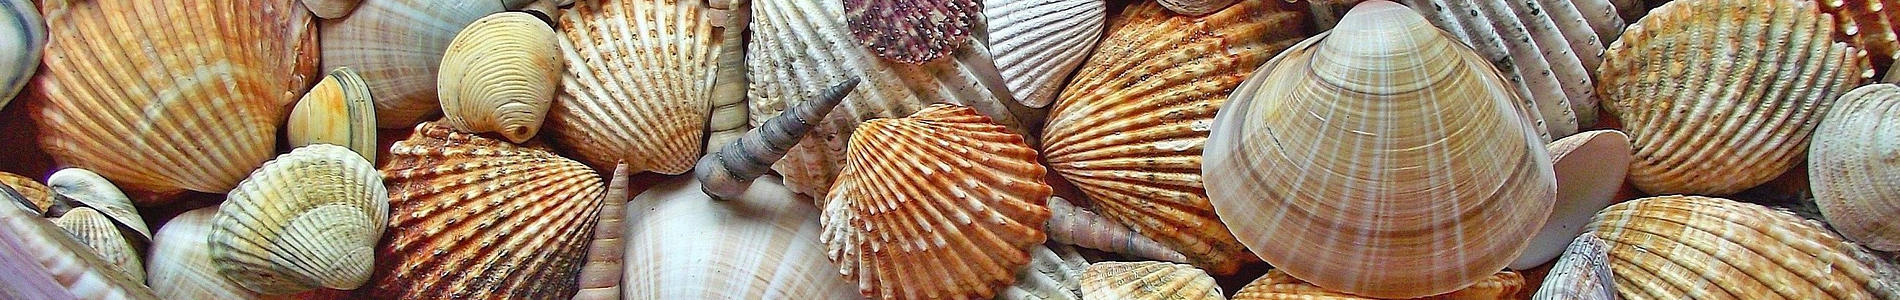
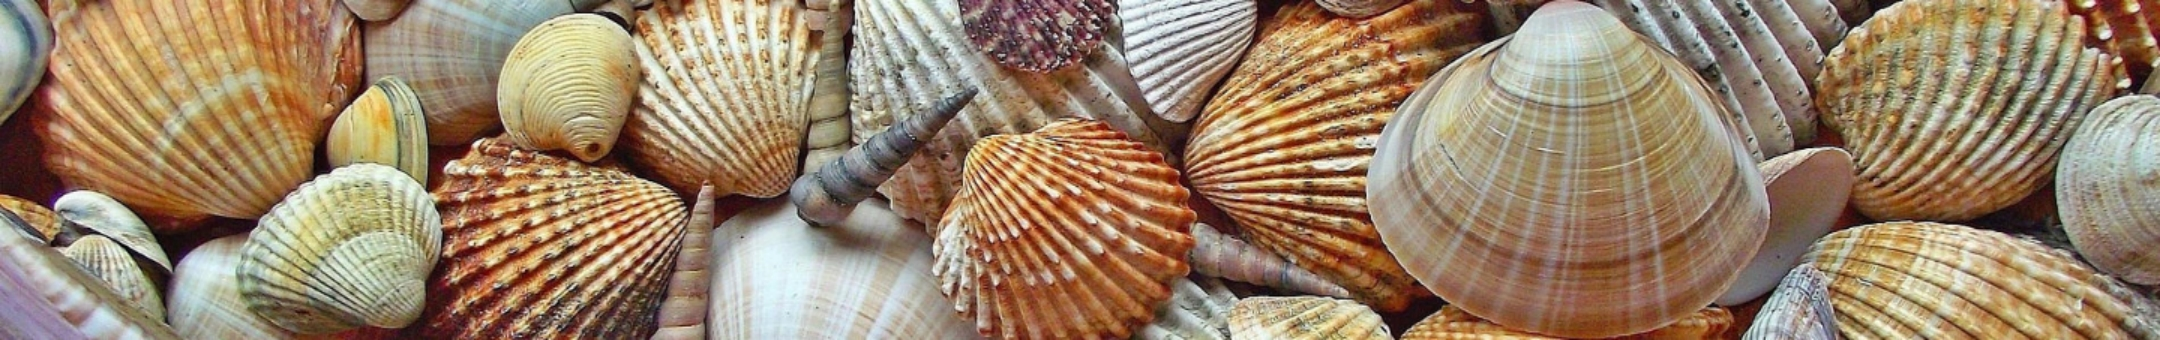
Added photo and made some style changes, colors, and making things fit right. Edited footer text and added a testimonial button in header

diff --git a/CondoRentalWebsite/wwwroot/css/site.css b/CondoRentalWebsite/wwwroot/css/site.css
@@ -9,7 +9,7 @@ a.navbar-brand {
 
 /* Provide sufficient contrast against white background */
 a {
-  color: #0366d6;
+    color: #f8f9fa;
 }
 
 .btn-primary {
